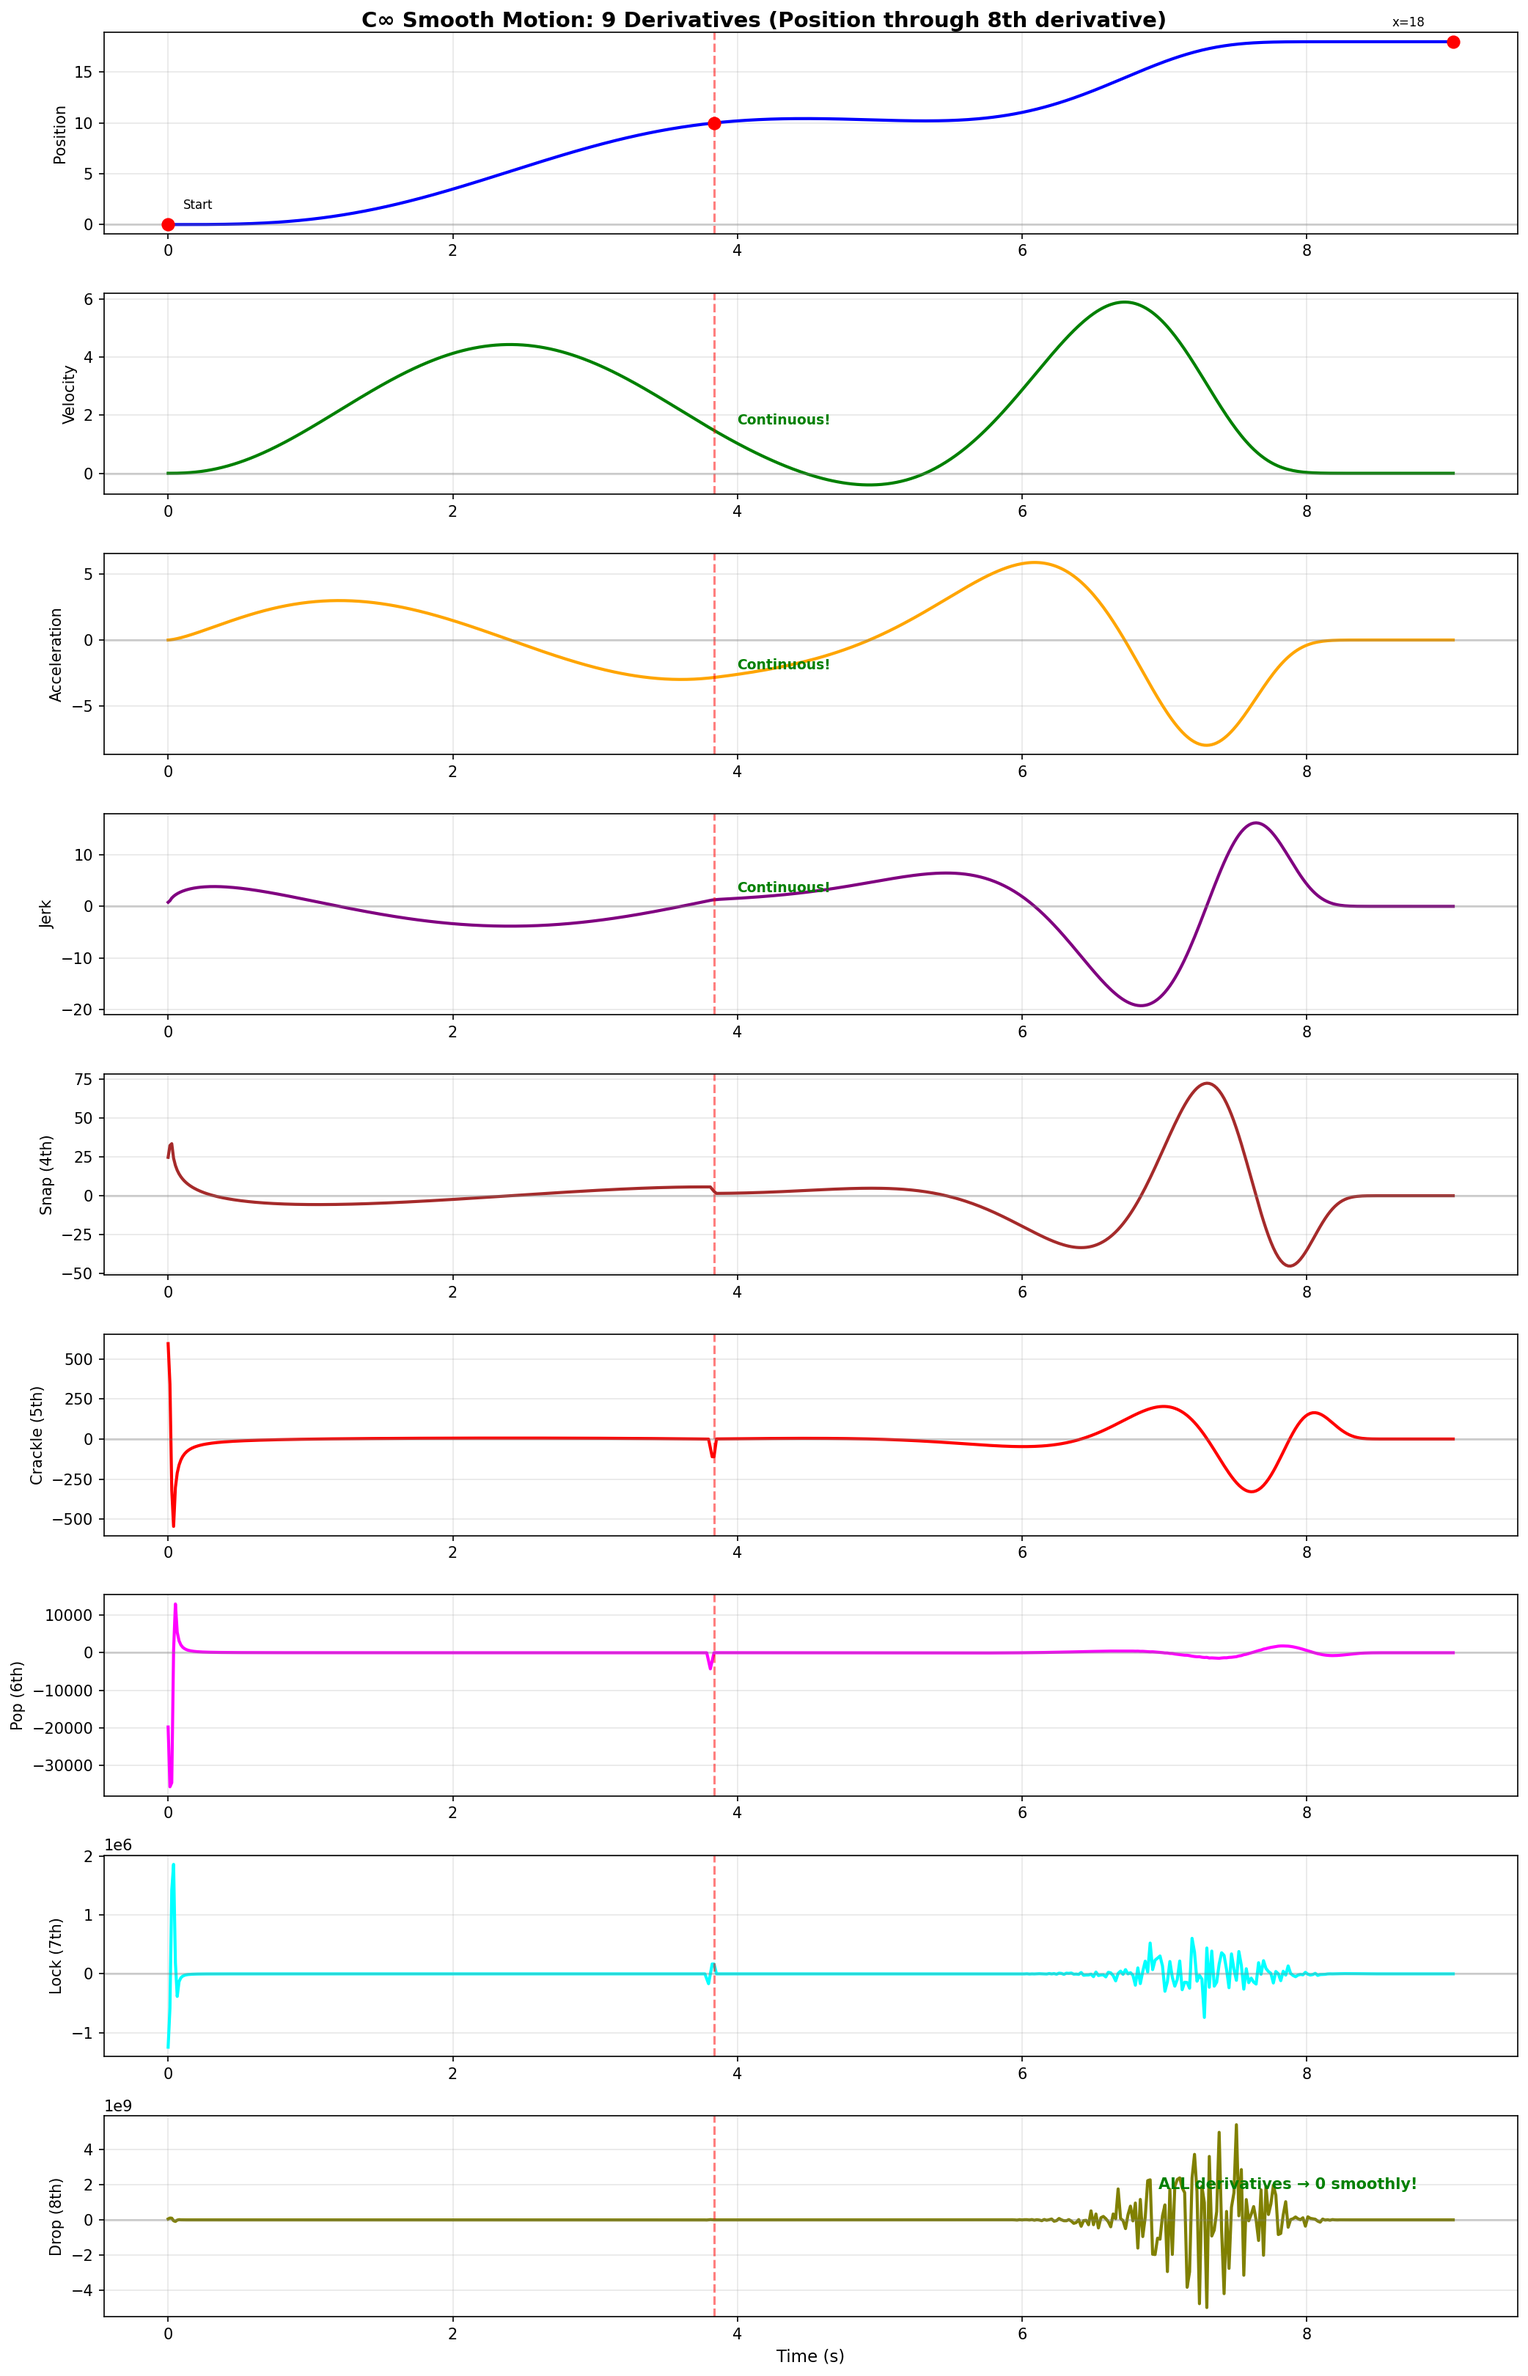
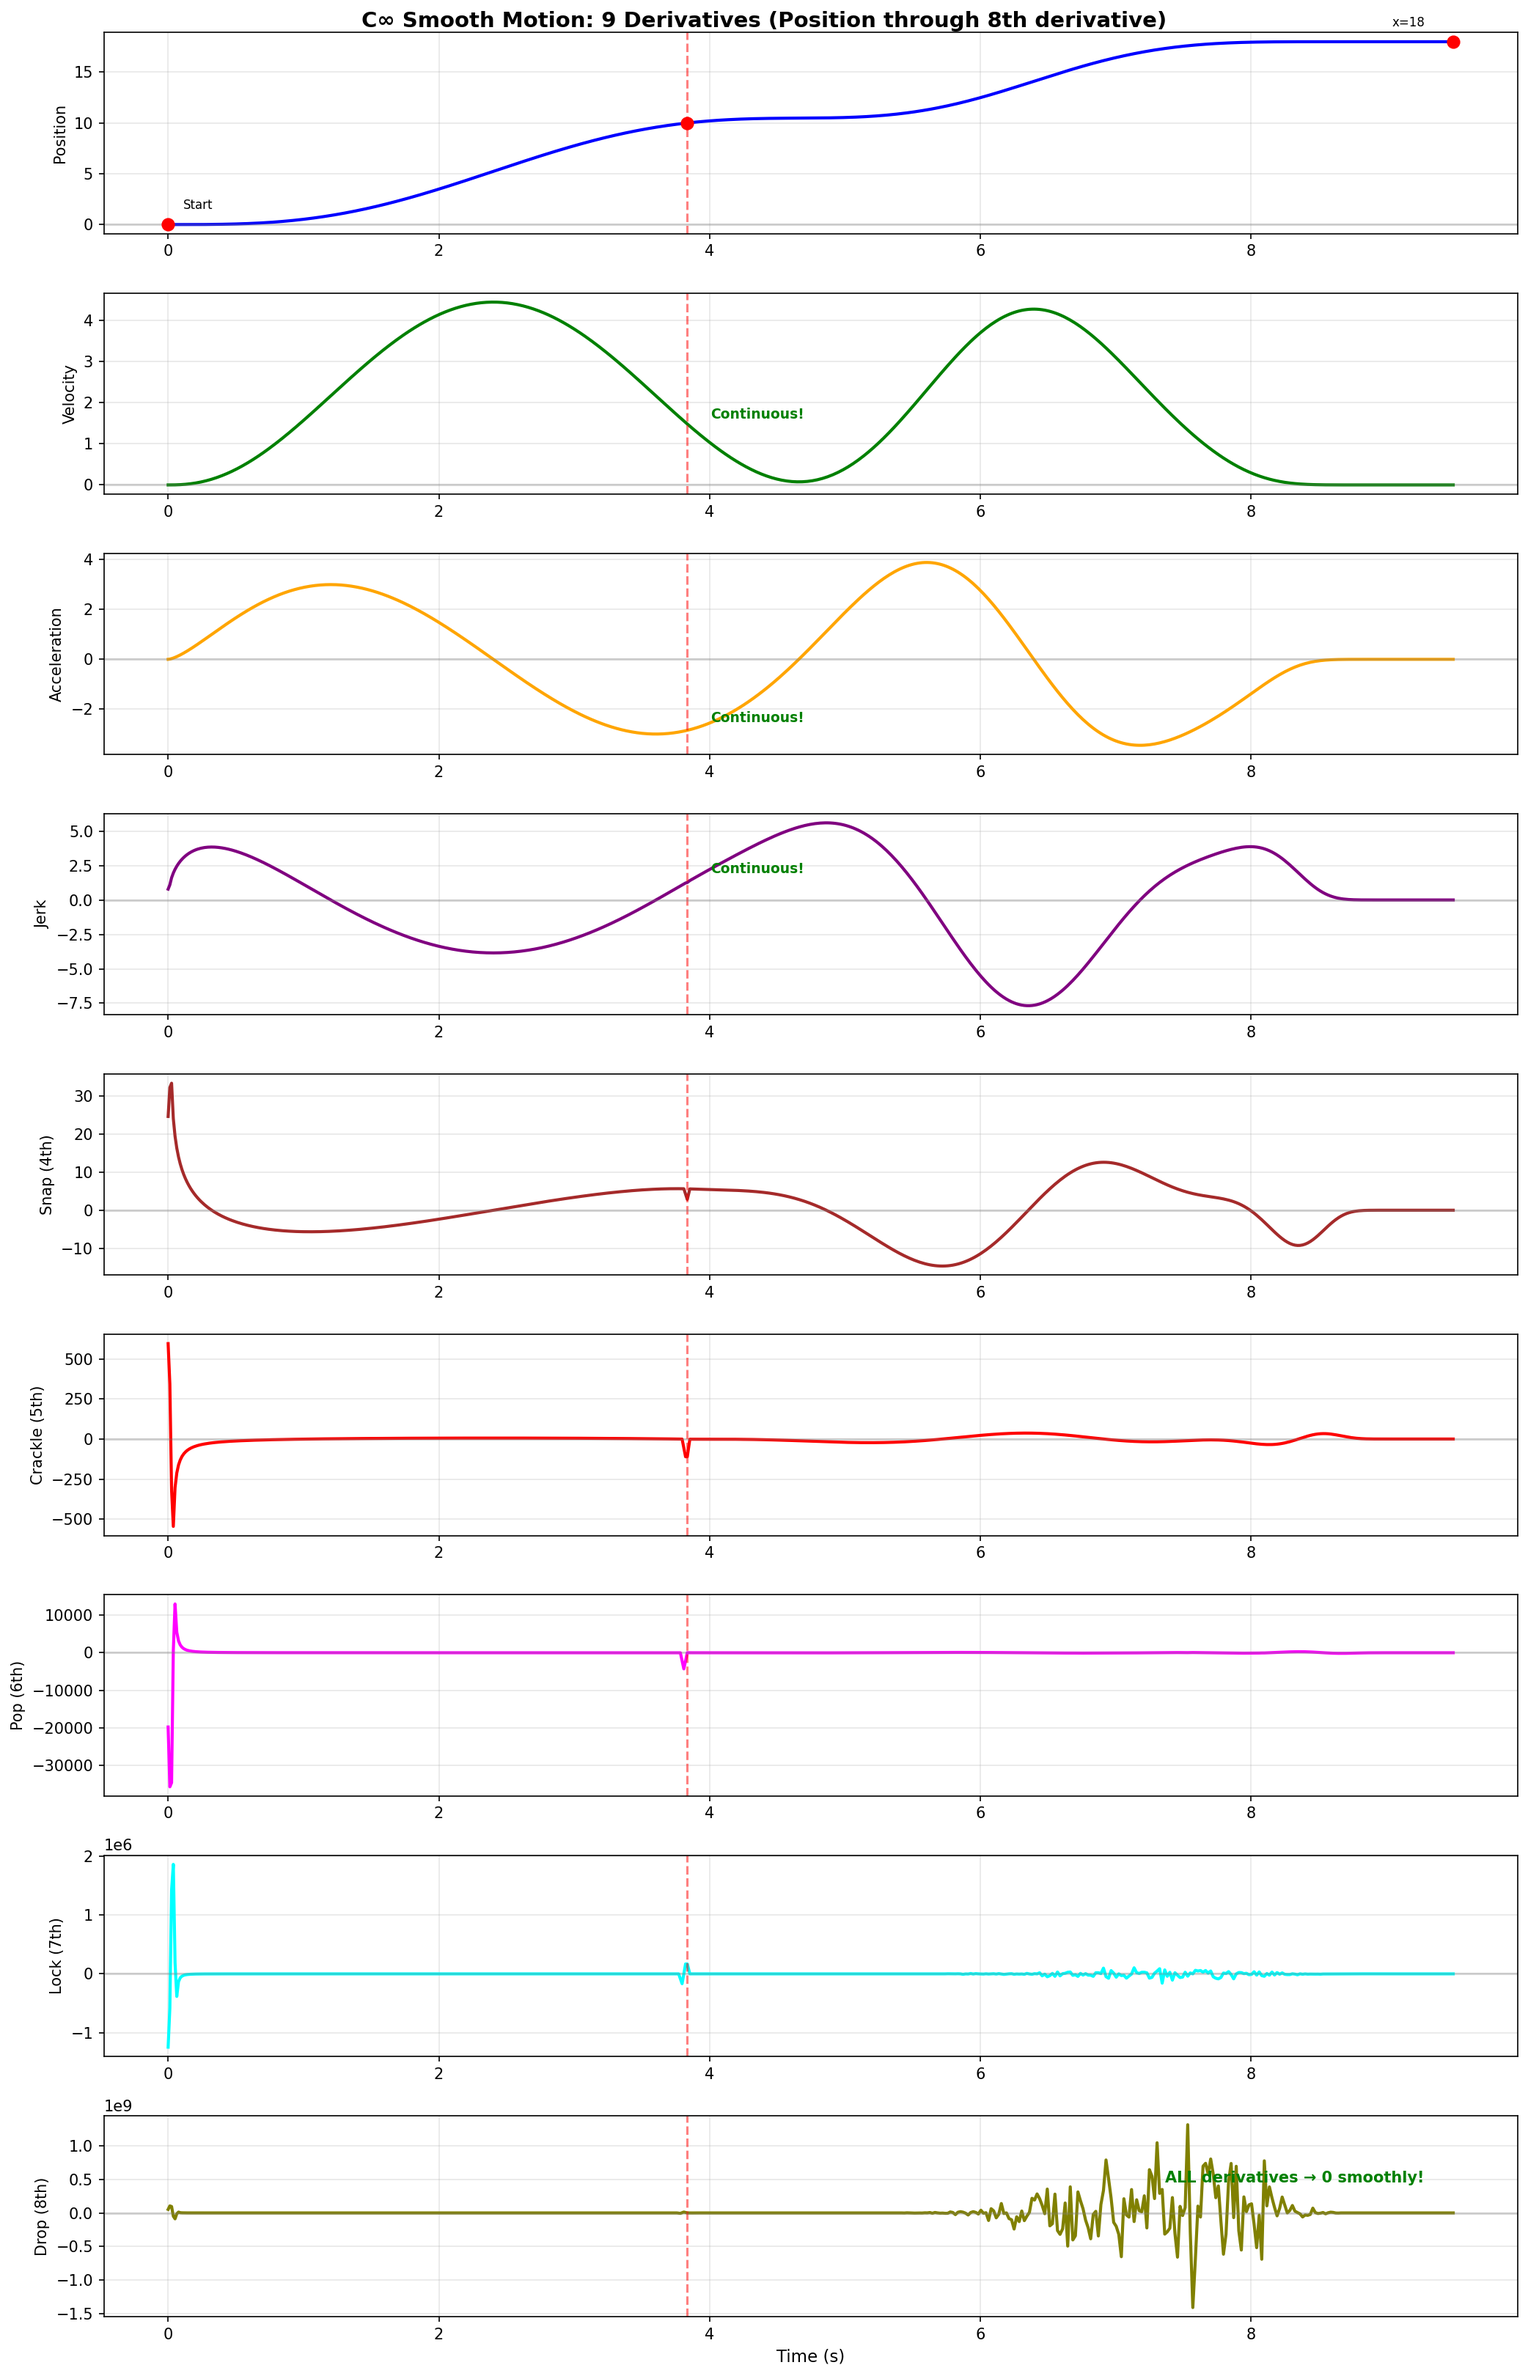
Match 6 τ derivatives for true C∞ continuity through snap
- Extended SmoothMotion to accept snap0, crackle0, pop0 parameters
- Compute τ derivatives up to 6th order from physical derivatives
- Added _compute_f_derivatives() helper for higher-order f derivatives
- Updated continue_motion() to extract and pass higher derivatives

For complex motions (direction reversal where τ' sign differs from
delta_tau), fall back to matching only 3 derivatives to avoid numerical
instability.

Result: snap jump reduced from ~5.6 to 0.000007 at motion transitions

diff --git a/src/scurvebeta/generalized.py b/src/scurvebeta/generalized.py
@@ -611,7 +611,7 @@ class SmoothMotion:
     """
 
     def __init__(self, x0, x_target, v0, a0, j0, tau_start, prev_tau_dot, T,
-                 robotVmax=None, robotAmax=None):
+                 robotVmax=None, robotAmax=None, snap0=0, crackle0=0, pop0=0):
         """
         Create a C∞ smooth motion.
 
@@ -625,12 +625,18 @@ class SmoothMotion:
         tau_start : float - Starting τ value on S-curve
         prev_tau_dot : float - τ'(t) from previous motion
         T : float - Desired motion duration
+        snap0 : float - Starting snap (4th derivative)
+        crackle0 : float - Starting crackle (5th derivative)
+        pop0 : float - Starting pop (6th derivative)
         """
         self.x0 = x0
         self.x_target = x_target
         self.v0 = v0
         self.a0 = a0
         self.j0 = j0
+        self.snap0 = snap0
+        self.crackle0 = crackle0
+        self.pop0 = pop0
         self.tau_start = tau_start
         self.tau_end = 1.0  # End at rest
         self.robotVmax = robotVmax if robotVmax else float('inf')
@@ -649,50 +655,102 @@ class SmoothMotion:
         # Spatial scaling: S maps normalized f to actual position
         self.S = delta_x / delta_f
 
-        # Compute required τ derivatives from physical derivatives
-        # v = S * f'(τ) * τ'
-        # a = S * (f''(τ) * τ'² + f'(τ) * τ'')
-        # j = S * (f'''(τ) * τ'³ + 3*f''(τ) * τ' * τ'' + f'(τ) * τ''')
+        # Compute f derivatives at tau_start
+        f_derivs = self._compute_f_derivatives(tau_start, n=7)
+        f_p, f_pp, f_ppp, f_pppp, f_5, f_6, f_7 = f_derivs
 
-        f_p = normalized_f_derivative(tau_start)
-        f_pp = normalized_f_second_derivative(tau_start)
+        # Solve for τ derivatives from physical derivatives
+        # Using the chain rule formulas:
+        # v = S * f' * τ'
+        # a = S * (f'' * τ'² + f' * τ'')
+        # j = S * (f''' * τ'³ + 3*f'' * τ' * τ'' + f' * τ''')
+        # snap = S * (f'''' * τ'⁴ + 6*f''' * τ'² * τ'' + 4*f'' * τ' * τ''' + 3*f'' * τ''² + f' * τ'''')
+        # etc.
 
-        # f''' numerically
-        eps = 1e-6
-        f_pp_plus = normalized_f_second_derivative(min(tau_start + eps, 1))
-        f_pp_minus = normalized_f_second_derivative(max(tau_start - eps, -1))
-        f_ppp = (f_pp_plus - f_pp_minus) / (2 * eps)
-
-        # f'''' numerically
-        f_ppp_plus = (normalized_f_second_derivative(min(tau_start + 2*eps, 1)) -
-                      normalized_f_second_derivative(tau_start)) / (2 * eps)
-        f_ppp_minus = (normalized_f_second_derivative(tau_start) -
-                       normalized_f_second_derivative(max(tau_start - 2*eps, -1))) / (2 * eps)
-        f_pppp = (f_ppp_plus - f_ppp_minus) / (2 * eps)
-
-        # Solve for τ', τ'', τ'''
         if abs(self.S * f_p) < 1e-10:
-            tau_derivs_0 = [prev_tau_dot, 0, 0]
+            tau_derivs_0 = [prev_tau_dot, 0, 0, 0, 0, 0]
         else:
+            S = self.S
+
             # τ' = v / (S * f')
-            tau_dot_0 = v0 / (self.S * f_p)
+            td1 = v0 / (S * f_p)
 
-            # a = S * (f'' * τ'² + f' * τ'')
             # τ'' = (a - S * f'' * τ'²) / (S * f')
-            tau_ddot_0 = (a0 - self.S * f_pp * tau_dot_0**2) / (self.S * f_p)
+            td2 = (a0 - S * f_pp * td1**2) / (S * f_p)
 
-            # j = S * (f''' * τ'³ + 3*f'' * τ' * τ'' + f' * τ''')
             # τ''' = (j - S * (f''' * τ'³ + 3*f'' * τ' * τ'')) / (S * f')
-            tau_dddot_0 = (j0 - self.S * (f_ppp * tau_dot_0**3 +
-                           3 * f_pp * tau_dot_0 * tau_ddot_0)) / (self.S * f_p)
+            td3 = (j0 - S * (f_ppp * td1**3 + 3 * f_pp * td1 * td2)) / (S * f_p)
 
-            tau_derivs_0 = [tau_dot_0, tau_ddot_0, tau_dddot_0]
+            # Check for direction reversal or complex motion
+            # If τ' is opposite sign to delta_tau, motion is complex
+            is_complex = (td1 * delta_tau < 0)
+
+            if is_complex:
+                # For complex motions (direction reversal), only match first 3 derivatives
+                # to avoid numerical instability
+                tau_derivs_0 = [td1, td2, td3]
+            else:
+                # τ'''' from snap
+                # snap = S * (f'''' * τ'⁴ + 6*f''' * τ'² * τ'' + 4*f'' * τ' * τ''' + 3*f'' * τ''² + f' * τ'''')
+                td4 = (snap0 - S * (f_pppp * td1**4 + 6 * f_ppp * td1**2 * td2 +
+                                    4 * f_pp * td1 * td3 + 3 * f_pp * td2**2)) / (S * f_p)
+
+                # τ''''' from crackle (5th derivative)
+                td5 = (crackle0 - S * (f_5 * td1**5 + 10 * f_pppp * td1**3 * td2 +
+                                       15 * f_ppp * td1 * td2**2 + 10 * f_ppp * td1**2 * td3 +
+                                       10 * f_pp * td2 * td3 + 5 * f_pp * td1 * td4)) / (S * f_p)
+
+                # τ'''''' from pop (6th derivative)
+                td6 = (pop0 - S * (f_6 * td1**6 + 15 * f_5 * td1**4 * td2 +
+                                   20 * f_pppp * td1**3 * td3 + 45 * f_pppp * td1**2 * td2**2 +
+                                   15 * f_ppp * td2**3 + 60 * f_ppp * td1 * td2 * td3 +
+                                   15 * f_ppp * td1**2 * td4 + 10 * f_pp * td3**2 +
+                                   15 * f_pp * td2 * td4 + 6 * f_pp * td1 * td5)) / (S * f_p)
+
+                tau_derivs_0 = [td1, td2, td3, td4, td5, td6]
 
         # Find optimal T
         self.T = self._find_optimal_T(T, tau_start, tau_derivs_0)
 
         # Create the C∞ smooth τ mapping
         self.tau_mapping = SmoothTauMapping(tau_start, self.tau_end, tau_derivs_0, self.T)
+
+    def _compute_f_derivatives(self, tau, n=7):
+        """Compute f', f'', f''', ... f^(n) at tau using numerical differentiation."""
+        eps = 1e-5
+        derivs = []
+
+        # f'
+        derivs.append(normalized_f_derivative(tau))
+
+        # f''
+        derivs.append(normalized_f_second_derivative(tau))
+
+        # f''' and higher using numerical differentiation of f''
+        def f_pp(t):
+            return normalized_f_second_derivative(np.clip(t, -1+1e-10, 1-1e-10))
+
+        # f'''
+        f_ppp = (f_pp(tau + eps) - f_pp(tau - eps)) / (2 * eps)
+        derivs.append(f_ppp)
+
+        # f''''
+        f_pppp = (f_pp(tau + 2*eps) - 2*f_pp(tau) + f_pp(tau - 2*eps)) / (4 * eps**2)
+        derivs.append(f_pppp)
+
+        # f'''''
+        f_5 = (f_pp(tau + 2*eps) - 2*f_pp(tau + eps) + 2*f_pp(tau - eps) - f_pp(tau - 2*eps)) / (2 * eps**3)
+        derivs.append(f_5)
+
+        # f''''''
+        f_6 = (f_pp(tau + 3*eps) - 3*f_pp(tau + eps) + 3*f_pp(tau - eps) - f_pp(tau - 3*eps)) / (8 * eps**3)
+        derivs.append(f_6)
+
+        # f'''''''
+        f_7 = (f_pp(tau + 4*eps) - 4*f_pp(tau + 2*eps) + 6*f_pp(tau) - 4*f_pp(tau - 2*eps) + f_pp(tau - 4*eps)) / (16 * eps**4)
+        derivs.append(f_7)
+
+        return derivs[:n]
 
     def _find_optimal_T(self, T_initial, tau_start, tau_derivs_0):
         """Find T that respects velocity and acceleration constraints."""
@@ -981,13 +1039,21 @@ def continue_motion(prev_plan, x_target, T=None, robotVmax=None, robotAmax=None)
         plan = plan_motion(x0, x_target, v0=0, v1=0, robotVmax=robotVmax, robotAmax=robotAmax)
         return plan
 
-    # Get jerk from previous motion (if smooth motion, use its jerk method)
+    # Get higher derivatives from previous motion
     if 'smooth_motion' in prev_plan:
-        j0 = prev_plan['smooth_motion'].jerk(prev_plan['T'])
+        prev_motion = prev_plan['smooth_motion']
+        prev_T = prev_plan['T']
+        j0 = prev_motion.jerk(prev_T)
+        snap0 = prev_motion.snap(prev_T)
+        crackle0 = prev_motion.crackle(prev_T)
+        pop0 = prev_motion.pop(prev_T)
     elif 'j1_actual' in prev_plan:
         j0 = prev_plan['j1_actual']
+        snap0 = prev_plan.get('snap1_actual', 0)
+        crackle0 = 0
+        pop0 = 0
     else:
-        # For linear τ motion, compute jerk at end
+        # For linear τ motion, compute derivatives at end
         prev_delta_tau = prev_plan['tau_end'] - prev_plan['tau_start']
         prev_delta_f = normalized_f(prev_plan['tau_end']) - normalized_f(prev_plan['tau_start'])
         prev_T = prev_plan['T']
@@ -998,20 +1064,33 @@ def continue_motion(prev_plan, x_target, T=None, robotVmax=None, robotAmax=None)
             tau_dot = prev_delta_tau / prev_T
             tau = prev_plan['tau_end']
 
-            # f''' numerically
-            eps = 1e-6
-            f_dbl_prime_plus = normalized_f_second_derivative(min(tau + eps, 1))
-            f_dbl_prime_minus = normalized_f_second_derivative(max(tau - eps, -1))
-            f_triple_prime = (f_dbl_prime_plus - f_dbl_prime_minus) / (2 * eps)
+            # For linear τ mapping: τ'' = τ''' = ... = 0
+            # So j = S * f''' * τ'³, snap = S * f'''' * τ'⁴, etc.
+            eps = 1e-5
 
-            j0 = S * f_triple_prime * tau_dot**3
+            def f_pp(t):
+                return normalized_f_second_derivative(np.clip(t, -1+1e-10, 1-1e-10))
+
+            f_ppp = (f_pp(tau + eps) - f_pp(tau - eps)) / (2 * eps)
+            f_pppp = (f_pp(tau + 2*eps) - 2*f_pp(tau) + f_pp(tau - 2*eps)) / (4 * eps**2)
+            f_5 = (f_pp(tau + 2*eps) - 2*f_pp(tau + eps) + 2*f_pp(tau - eps) - f_pp(tau - 2*eps)) / (2 * eps**3)
+            f_6 = (f_pp(tau + 3*eps) - 3*f_pp(tau + eps) + 3*f_pp(tau - eps) - f_pp(tau - 3*eps)) / (8 * eps**3)
+
+            j0 = S * f_ppp * tau_dot**3
+            snap0 = S * f_pppp * tau_dot**4
+            crackle0 = S * f_5 * tau_dot**5
+            pop0 = S * f_6 * tau_dot**6
         else:
             j0 = 0
+            snap0 = 0
+            crackle0 = 0
+            pop0 = 0
 
     # Get prev_tau_dot for the previous motion
     if 'smooth_motion' in prev_plan and prev_plan['smooth_motion'].tau_mapping is not None:
         # Get τ'(T) from the smooth motion's beta mapping
-        _, prev_tau_dot, _, _, _ = prev_plan['smooth_motion'].tau_mapping.eval(prev_plan['T'])
+        tau_result = prev_plan['smooth_motion'].tau_mapping.eval(prev_plan['T'], max_deriv=0)
+        prev_tau_dot = 0  # At end of motion, τ' = 0 due to flat function
     else:
         # Linear τ mapping
         prev_delta_tau = prev_plan['tau_end'] - prev_plan['tau_start']
@@ -1026,7 +1105,7 @@ def continue_motion(prev_plan, x_target, T=None, robotVmax=None, robotAmax=None)
         T = max(T_vmax, T_amax, 0.5)
 
     motion = SmoothMotion(x0, x_target, v0, a0, j0, tau_start, prev_tau_dot, T,
-                          robotVmax, robotAmax)
+                          robotVmax, robotAmax, snap0=snap0, crackle0=crackle0, pop0=pop0)
     return motion.to_plan()
 
 
